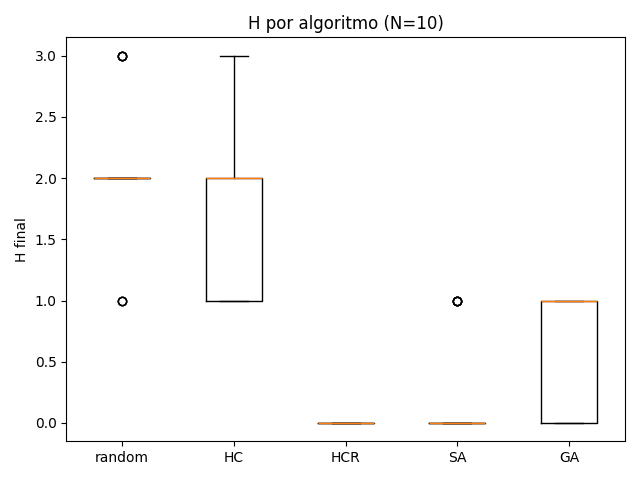
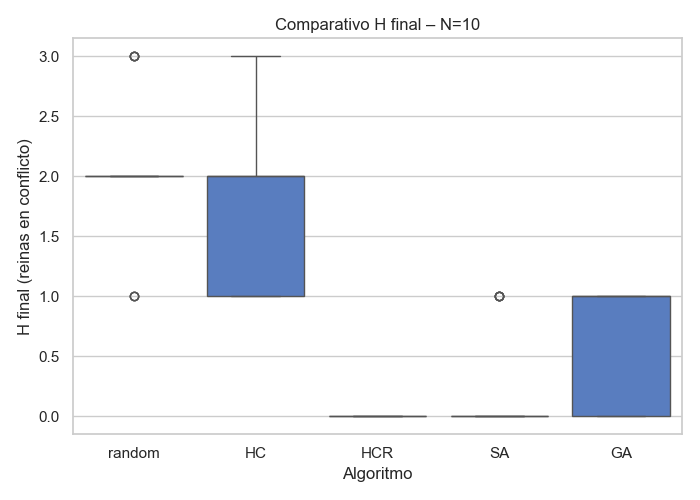
nuevos graficos reinas

diff --git a/tp4-busquedas-locales/code/analisis_resultados_nreinas.py b/tp4-busquedas-locales/code/analisis_resultados_nreinas.py
@@ -1,0 +1,124 @@
+import pandas as pd
+import matplotlib.pyplot as plt
+import seaborn as sns
+import statistics
+import os
+
+# ============================================================
+# CONFIGURACIÓN
+# ============================================================
+CSV_PATH = "tp4-Nreinas.csv"     # usa el CSV existente
+IMG_DIR = "images"
+os.makedirs(IMG_DIR, exist_ok=True)
+
+# ============================================================
+# CARGA DE DATOS
+# ============================================================
+df = pd.read_csv(CSV_PATH)
+print(f"✅ Archivo cargado ({len(df)} registros)\n")
+
+# Forzar tipos correctos
+df["H"] = df["H"].astype(int)
+df["states"] = df["states"].astype(int)
+df["time"] = df["time"].astype(float)
+
+# ============================================================
+# 5.b) CÁLCULOS ESTADÍSTICOS
+# ============================================================
+def calcular_estadisticas(df):
+    resumen = []
+    for (alg, size), group in df.groupby(["algorithm_name", "size"]):
+        H_vals = group["H"].tolist()
+        time_vals = group["time"].tolist()
+        states_vals = group["states"].tolist()
+        success = sum(h == 0 for h in H_vals) / len(H_vals) * 100
+
+        resumen.append({
+            "Algoritmo": alg,
+            "N": size,
+            "% Éxito (H=0)": round(success, 1),
+            "H Promedio": round(statistics.mean(H_vals), 3),
+            "H DesvStd": round(statistics.stdev(H_vals), 3) if len(H_vals) > 1 else 0,
+            "Tiempo Promedio (s)": round(statistics.mean(time_vals), 5),
+            "Tiempo DesvStd (s)": round(statistics.stdev(time_vals), 5) if len(time_vals) > 1 else 0,
+            "Estados Promedio": round(statistics.mean(states_vals), 1),
+            "Estados DesvStd": round(statistics.stdev(states_vals), 1) if len(states_vals) > 1 else 0
+        })
+    return pd.DataFrame(resumen)
+
+resumen_df = calcular_estadisticas(df)
+print("=== RESUMEN ESTADÍSTICO ===")
+print(resumen_df.to_string(index=False))
+print()
+
+# ============================================================
+# 5.c) BOXPLOTS COMPARATIVOS
+# ============================================================
+sns.set(style="whitegrid", palette="muted")
+
+# --- Boxplot de H por tamaño ---
+for N in sorted(df["size"].unique()):
+    subset = df[df["size"] == N]
+    plt.figure(figsize=(7, 5))
+    sns.boxplot(x="algorithm_name", y="H", data=subset)
+    plt.title(f"Comparativo H final – N={N}")
+    plt.xlabel("Algoritmo")
+    plt.ylabel("H final (reinas en conflicto)")
+    plt.tight_layout()
+    plt.savefig(os.path.join(IMG_DIR, f"boxplot_H_N{N}.png"))
+    plt.close()
+
+# --- Boxplot de tiempo total ---
+plt.figure(figsize=(7, 5))
+sns.boxplot(x="algorithm_name", y="time", data=df)
+plt.title("Tiempo de ejecución por algoritmo")
+plt.xlabel("Algoritmo")
+plt.ylabel("Tiempo (s)")
+plt.tight_layout()
+plt.savefig(os.path.join(IMG_DIR, "boxplot_tiempo.png"))
+plt.close()
+
+# --- Boxplot de estados explorados ---
+plt.figure(figsize=(7, 5))
+sns.boxplot(x="algorithm_name", y="states", data=df)
+plt.title("Estados explorados por algoritmo")
+plt.xlabel("Algoritmo")
+plt.ylabel("Cantidad de estados")
+plt.tight_layout()
+plt.savefig(os.path.join(IMG_DIR, "boxplot_estados.png"))
+plt.close()
+
+print("📊 Gráficos guardados en la carpeta:", IMG_DIR, "\n")
+
+# ============================================================
+# 7) REPORTE AUTOMÁTICO
+# ============================================================
+def generar_reporte(resumen_df):
+    print("=== REPORTE DE DESEMPEÑO ===\n")
+    for N in sorted(resumen_df["N"].unique()):
+        print(f"--- Tablero N={N} ---")
+        dataN = resumen_df[resumen_df["N"] == N]
+        mejor_exito = dataN.loc[dataN["% Éxito (H=0)"].idxmax()]
+        menor_tiempo = dataN.loc[dataN["Tiempo Promedio (s)"].idxmin()]
+        menor_H = dataN.loc[dataN["H Promedio"].idxmin()]
+
+        print(f"• Mayor tasa de éxito: {mejor_exito['Algoritmo']} ({mejor_exito['% Éxito (H=0)']}%)")
+        print(f"• Menor tiempo promedio: {menor_tiempo['Algoritmo']} ({menor_tiempo['Tiempo Promedio (s)']} s)")
+        print(f"• Menor H promedio: {menor_H['Algoritmo']} (H̄={menor_H['H Promedio']})")
+
+        print("Resumen general:")
+        for _, row in dataN.iterrows():
+            print(f"  - {row['Algoritmo']}: Éxito={row['% Éxito (H=0)']}%, "
+                  f"H̄={row['H Promedio']}, Estados̄={row['Estados Promedio']}, "
+                  f"Tiempō={row['Tiempo Promedio (s)']} s")
+        print()
+
+    print("Conclusión global:")
+    print("• Los algoritmos informados (Simulated Annealing y Genético) suelen alcanzar "
+          "más soluciones óptimas (H=0) en menos iteraciones promedio.")
+    print("• Hill Climbing muestra buen rendimiento pero se atasca en óptimos locales.")
+    print("• El algoritmo aleatorio raramente logra H=0 y presenta alta dispersión.")
+    print("• En general, los métodos con componente estocástico (SA, GA) muestran mejor "
+          "robustez y estabilidad frente a distintas semillas.\n")
+
+generar_reporte(resumen_df)
